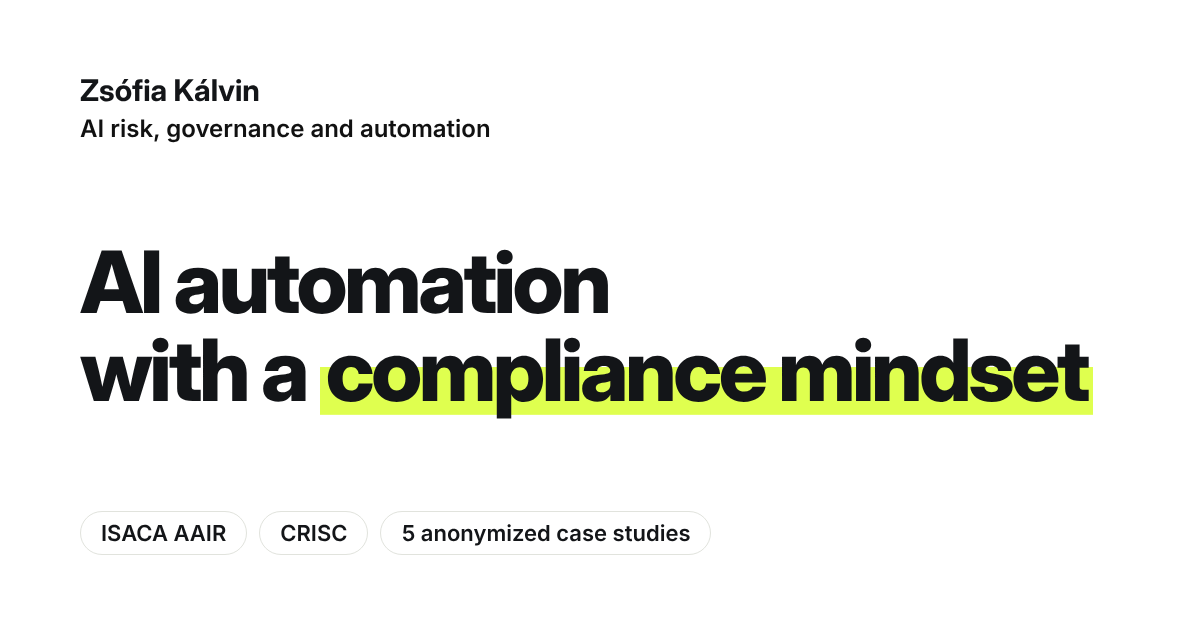
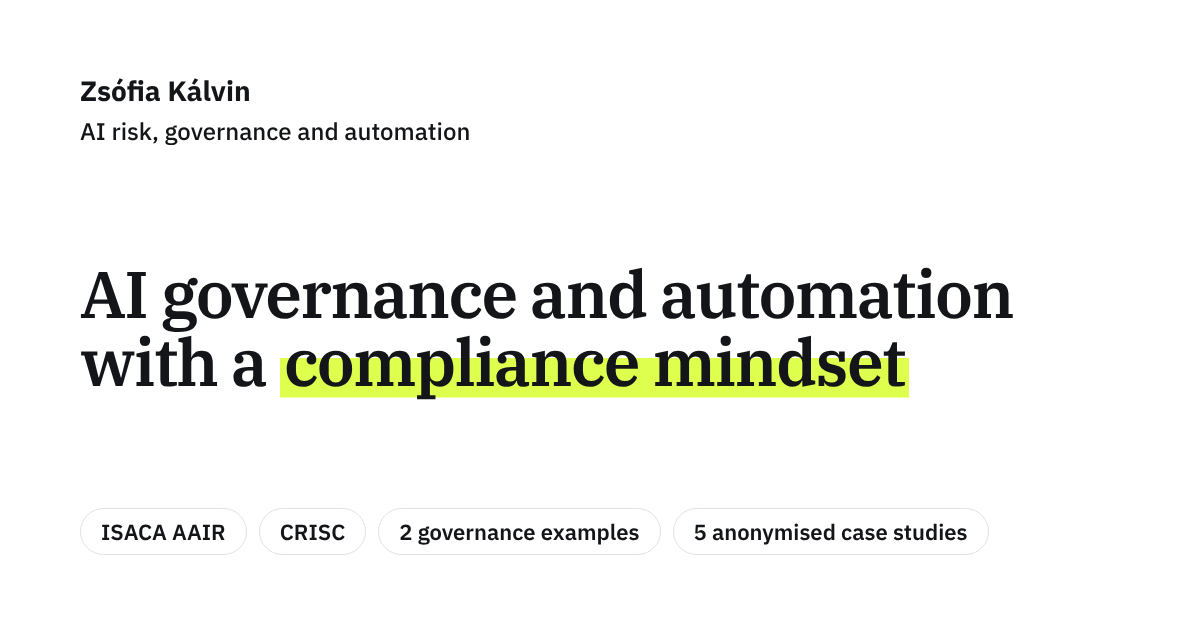
New og-image with updated headline; cache-bust CSS/JS; better text wrapping in lede and section intros
Claude-Session: https://claude.ai/code/session_01CLVZ4CkVJHgHvk4eJjgiwY

diff --git a/index.html b/index.html
@@ -7,7 +7,7 @@
 <meta name="viewport" content="width=device-width, initial-scale=1, viewport-fit=cover">
 <title>Zsófia Kálvin | AI Risk and Governance, Hands-on AI Automation</title>
 <meta name="description" content="Zsófia Kálvin: AI risk and governance, GRC and IAM. AI governance worked examples and hands-on AI automation case studies, mapped to the EU AI Act, GDPR, ISO/IEC 42001 and NIST AI RMF. ISACA AAIR, CRISC.">
-<link rel="stylesheet" href="assets/site.css">
+<link rel="stylesheet" href="assets/site.css?v=20261101">
 
 <link rel="canonical" href="https://zsofiakalvin.github.io/">
 <meta property="og:type" content="website">
@@ -43,7 +43,7 @@
         <span class="role">AI risk, governance and automation</span>
         <div class="creds" aria-label="Credentials"><span>ISACA AAIR</span><span>CRISC</span></div>
         <h1>AI governance and automation <span class="rule">with a <span class="mark">compliance mindset</span></span></h1>
-        <p class="lede">With over 10 years of experience in IT systems support, risk advisory and IT audit, I help organisations govern AI and build AI-driven automations that follow the same principles: <mark class="hl">least privilege, human review, clear ownership and an audit trail</mark>.</p>
+        <p class="lede">With over 10 years of experience in IT systems support, risk advisory and IT audit, I&nbsp;help organisations govern AI and build AI-driven automations that follow the same principles: <mark class="hl">least privilege, human review, clear ownership and an audit trail</mark>.</p>
         <div class="cta">
           <a class="btn primary" href="https://www.linkedin.com/in/zsofia-kalvin/">LinkedIn <span class="ic" aria-hidden="true">&#8599;</span></a>
           <a class="btn" href="https://github.com/zsofiakalvin">GitHub <span class="ic" aria-hidden="true">&#8599;</span></a>
@@ -58,7 +58,7 @@
   <section aria-labelledby="parts">
     <div class="section-head">
       <h2 id="parts">Use cases</h2>
-      <p>Governance sets the rules for using AI. Automation shows those rules applied to real work. I work on both, because a policy is only as good as the systems that follow it.</p>
+      <p>Governance sets the rules for using AI. Automation shows those rules applied to real work. I&nbsp;work on both, because a policy is only as good as the systems that follow it.</p>
     </div>
     <div class="parts">
       <a class="part" href="governance.html">
@@ -156,6 +156,6 @@
   </footer>
 
 </main>
-<script src="assets/site.js" defer></script>
+<script src="assets/site.js?v=20261101" defer></script>
 </body>
 </html>

diff --git a/assets/site.css b/assets/site.css
@@ -102,7 +102,7 @@
   }
   @media (prefers-color-scheme: dark) { :root:not([data-theme="light"]) mark.hl { background-size: 100% 100%; color: #131518; border-radius: 3px; } }
   :root[data-theme="dark"] mark.hl { background-size: 100% 100%; color: #131518; border-radius: 3px; }
-  .lede { font-size: clamp(1.03rem, 1.5vw, 1.16rem); color: var(--muted); max-width: 56ch; }
+  .lede { font-size: clamp(1.03rem, 1.5vw, 1.16rem); color: var(--muted); max-width: 64ch; text-wrap: pretty; }
   .cta { display: flex; flex-wrap: wrap; gap: 12px; }
   .btn {
     display: inline-flex; align-items: center; gap: 12px; text-decoration: none;
@@ -149,7 +149,7 @@
   /* Section heads */
   .section-head { display: flex; flex-direction: column; gap: 8px; margin-bottom: 32px; }
   .section-head h2 { font-family: var(--font-display); font-weight: 700; font-size: clamp(1.6rem, 3vw, 2.1rem); letter-spacing: -0.02em; text-wrap: balance; }
-  .section-head p { color: var(--muted); max-width: 60ch; }
+  .section-head p { color: var(--muted); max-width: 72ch; text-wrap: pretty; }
 
   /* Principles */
   .principles { display: grid; grid-template-columns: repeat(2, minmax(0, 1fr)); column-gap: 56px; border-top: 2px solid var(--fg); }

diff --git a/governance.html b/governance.html
@@ -7,7 +7,7 @@
 <meta name="viewport" content="width=device-width, initial-scale=1, viewport-fit=cover">
 <title>AI Governance | Zsófia Kálvin</title>
 <meta name="description" content="AI governance worked examples: policy and control mapping, AI asset registry and AI and privacy screening in change management, mapped to the EU AI Act, GDPR, ISO/IEC 42001, ISO/IEC 27001 and NIST AI RMF.">
-<link rel="stylesheet" href="assets/site.css">
+<link rel="stylesheet" href="assets/site.css?v=20261101">
 
 <link rel="canonical" href="https://zsofiakalvin.github.io/governance.html">
 <meta property="og:type" content="website">
@@ -308,6 +308,6 @@
   </footer>
 
 </main>
-<script src="assets/site.js" defer></script>
+<script src="assets/site.js?v=20261101" defer></script>
 </body>
 </html>

diff --git a/automation.html b/automation.html
@@ -7,7 +7,7 @@
 <meta name="viewport" content="width=device-width, initial-scale=1, viewport-fit=cover">
 <title>AI Process Automation | Zsófia Kálvin</title>
 <meta name="description" content="Five anonymised AI automation case studies in GRC, IAM, support and delivery, each human-in-the-loop with traceability, and mapped to ISO/IEC 27001, COBIT and NIST AI RMF.">
-<link rel="stylesheet" href="assets/site.css">
+<link rel="stylesheet" href="assets/site.css?v=20261101">
 
 <link rel="canonical" href="https://zsofiakalvin.github.io/automation.html">
 <meta property="og:type" content="website">
@@ -405,6 +405,6 @@
   </footer>
 
 </main>
-<script src="assets/site.js" defer></script>
+<script src="assets/site.js?v=20261101" defer></script>
 </body>
 </html>

diff --git a/sources.html b/sources.html
@@ -7,7 +7,7 @@
 <meta name="viewport" content="width=device-width, initial-scale=1, viewport-fit=cover">
 <title>Sources | Zsófia Kálvin</title>
 <meta name="description" content="Official sources for the regulations, standards and frameworks referred to on this portfolio.">
-<link rel="stylesheet" href="assets/site.css">
+<link rel="stylesheet" href="assets/site.css?v=20261101">
 
 <link rel="canonical" href="https://zsofiakalvin.github.io/sources.html">
 <meta property="og:type" content="website">
@@ -65,6 +65,6 @@
   </footer>
 
 </main>
-<script src="assets/site.js" defer></script>
+<script src="assets/site.js?v=20261101" defer></script>
 </body>
 </html>

diff --git a/glossary.html b/glossary.html
@@ -7,7 +7,7 @@
 <meta name="viewport" content="width=device-width, initial-scale=1, viewport-fit=cover">
 <title>Glossary | Zsófia Kálvin</title>
 <meta name="description" content="Abbreviations and terms used on this portfolio, explained.">
-<link rel="stylesheet" href="assets/site.css">
+<link rel="stylesheet" href="assets/site.css?v=20261101">
 
 <link rel="canonical" href="https://zsofiakalvin.github.io/glossary.html">
 <meta property="og:type" content="website">
@@ -65,6 +65,6 @@
   </footer>
 
 </main>
-<script src="assets/site.js" defer></script>
+<script src="assets/site.js?v=20261101" defer></script>
 </body>
 </html>
